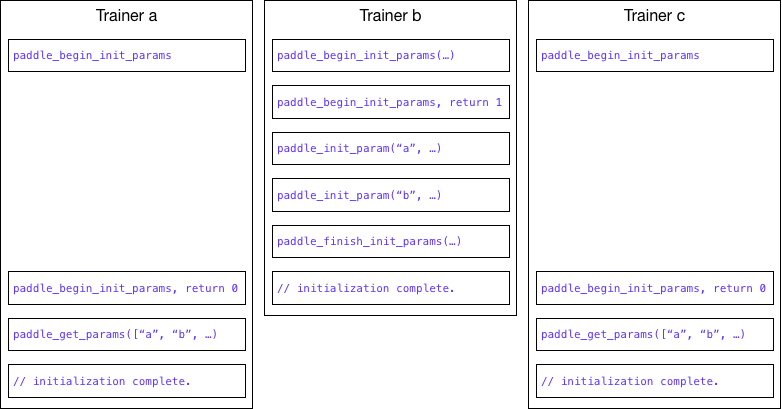
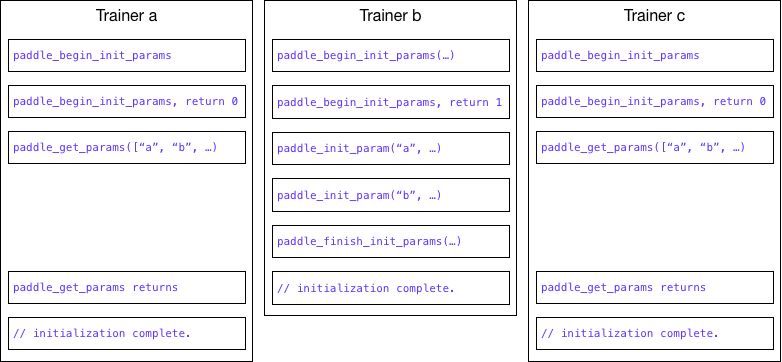
update design doc: Client Library of Parameter Server

diff --git a/doc/design/cluster_train/pserver_client.md b/doc/design/cluster_train/pserver_client.md
@@ -55,7 +55,7 @@ The trainer select process is encapsulated in the C API function:
 ```c
 int paddle_begin_init_params(paddle_pserver_client* client, const char* config_proto);
 ```
-The selected trainer's call to `paddle_begin_init_params` will return with 1, and the other trainers' call to `paddle_begin_init_params` will block until initialization is done, and return 0. As illustrated below:
+The selected trainer's call to `paddle_begin_init_params` will return with 1, and the other trainers' call to `paddle_begin_init_params` will return 0. `paddle_get_params` will be blocked until initialization is completed. As illustrated below:
 
 <img src="./src/pserver_init.png">
 
@@ -89,16 +89,13 @@ void paddle_pserver_client_release(paddle_pserver_client* client);
  *
  * paddle_begin_init_params will be called from multiple trainers,
  * only one trainer will be selected to initialize the parameters on
- * parameter servers. Other trainers will be blocked until the
- * initialization is done, and they need to get the initialized
+ * parameter servers. Other trainers need to get the initialized
  * parameters from parameter servers using @paddle_get_params.
  *
- * @param pserver_config_proto serialized parameter server configuration in
- * Protocol Buffers format.
  * @return 1 if the trainer is selected to initialize parameter
  * servers, otherwise 0.
  */
-int paddle_begin_init_params(paddle_pserver_client* client, const char* pserver_config_proto);
+int paddle_begin_init_params(paddle_pserver_client* client);
 
 /**
  * @brief paddle_init_param initializes the parameter on parameter
@@ -106,12 +103,13 @@ int paddle_begin_init_params(paddle_pserver_client* client, const char* pserver_
  *
  * @param param the parameter to initialize.
  * @param param_config_proto the configuration for the parameter.
+ * @param config_len the length of param_config_proto
  * @return 0 if successful, otherwise -1. On failure, the trainer
  * needs to restart the entire initialization process (starting from
  * @paddle_begin_init_param). Or simply exit the program and wait for
  * the cluster management system to restart the trainer.
  */
-int paddle_init_param(paddle_pserver_client* client, paddle_parameter params, const char* param_config_proto);
+int paddle_init_param(paddle_pserver_client* client, paddle_parameter param, const unsigned char* param_config_proto, int config_len);
 
 /**
  * @brief paddle_finish_init_params tells parameter servers client has
